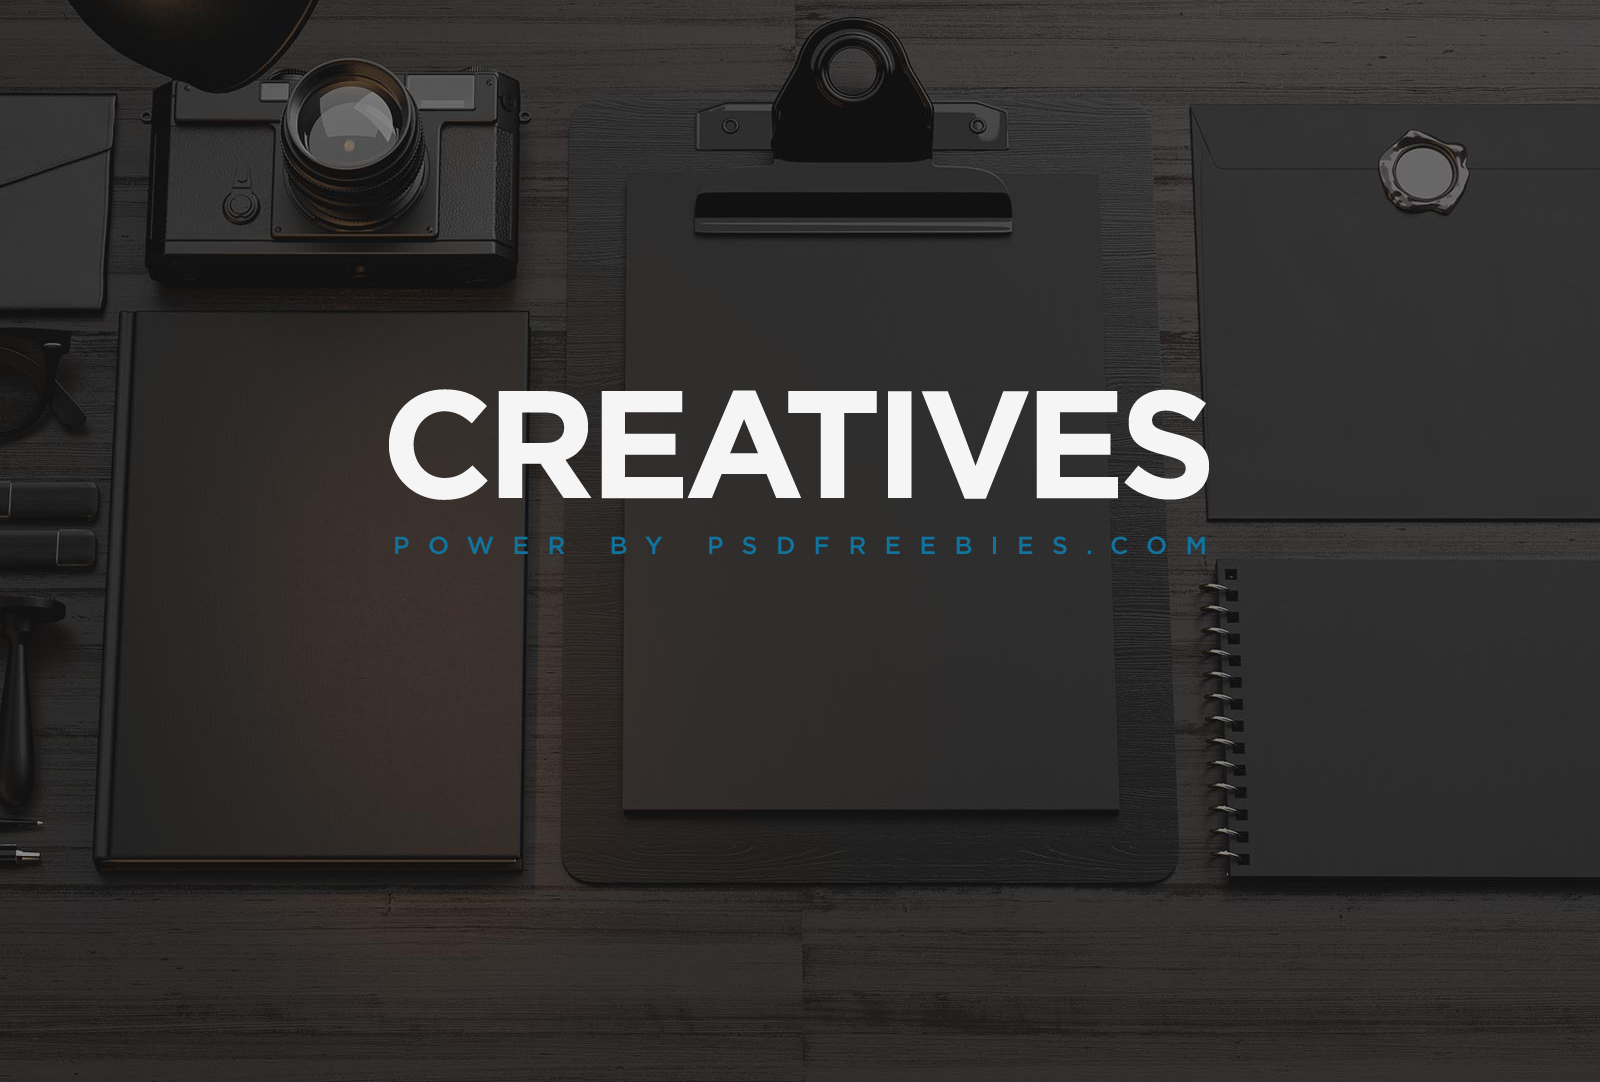
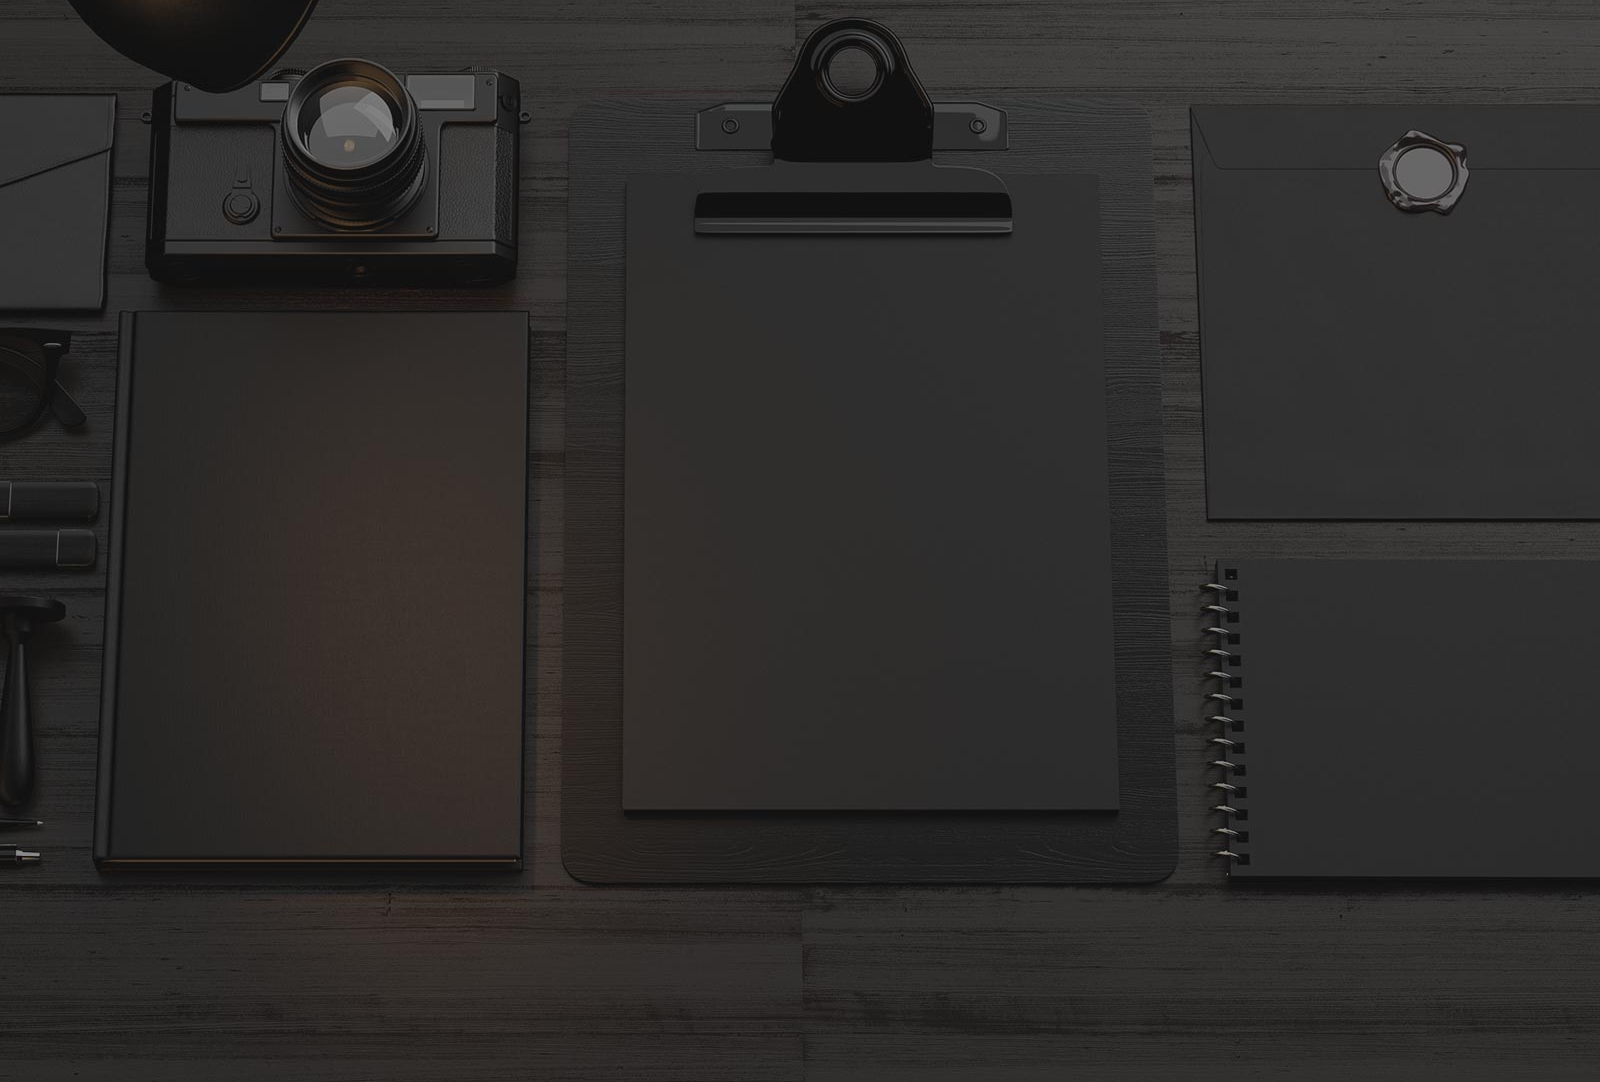
we are sss

diff --git a/index.html b/index.html
@@ -36,13 +36,16 @@
         </ul>
       </div>
     </div>
+    <div class="center-word">
+      <p id="upword">creatives</p>
+      <p id="downord">power by psdfreeberries.com</p>
+    </div>
   </div>
   <!-- SECOND BLOCK -->
   <div class="aboutagency2">
     <div class="hitext">
       <p class="highword1">w</p>
       <p class="highword2">we are an awesome agency</p>
-      </p>
     </div>
     <div class="features">
       <div id="feature" class="feature1">
@@ -50,7 +53,8 @@
           <p>FEATURE ONE</p>
         </div>
         <div class="textfe2">
-          <p>Aenean lacinia bibendum nulla sed consectetur. Vivamus sagittis lacus vel augue laoreet rutrum faucibus dolor </p>
+          <p>Aenean lacinia bibendum nulla sed consectetur. Vivamus sagittis lacus vel augue laoreet rutrum faucibus
+            dolor </p>
         </div>
       </div>
       <div id="feature" class="feature2">
@@ -58,7 +62,8 @@
           <p>FEATURE TWO</p>
         </div>
         <div class="textfe2">
-          <p>Aenean lacinia bibendum nulla sed consectetur. Vivamus sagittis lacus vel augue laoreet rutrum faucibus dolor </p>
+          <p>Aenean lacinia bibendum nulla sed consectetur. Vivamus sagittis lacus vel augue laoreet rutrum faucibus
+            dolor </p>
         </div>
       </div>
       <div id="feature" class="feature3">
@@ -66,7 +71,8 @@
           <p>FEATURE THREE</p>
         </div>
         <div class="textfe2">
-          <p>Aenean lacinia bibendum nulla sed consectetur. Vivamus sagittis lacus vel augue laoreet rutrum faucibus dolor </p>
+          <p>Aenean lacinia bibendum nulla sed consectetur. Vivamus sagittis lacus vel augue laoreet rutrum faucibus
+            dolor </p>
         </div>
       </div>
       <div id="feature" class="feature4">
@@ -74,7 +80,8 @@
           <p>FEATURE FOUR</p>
         </div>
         <div class="textfe2">
-          <p>Aenean lacinia bibendum nulla sed consectetur. Vivamus sagittis lacus vel augue laoreet rutrum faucibus dolor </p>
+          <p>Aenean lacinia bibendum nulla sed consectetur. Vivamus sagittis lacus vel augue laoreet rutrum faucibus
+            dolor </p>
         </div>
       </div>
     </div>
@@ -83,11 +90,17 @@
   <div class="newsarea">
     <div class="firstblock">
       <div class="textarea">
-        <div class="textareasize">
-          <p>Akita Inu Dog</p>
-          <p>Cum sociis natoque penatibus et magnis dis parturient montes, nascetur ridiculus mus. Lorem ipsum dolor sit amet, consectetur adipiscing elit. Donec sed odio dui. Vivamus sagittis lacus vel augue laoreet rutrum faucibus dolor auctor.
+        <div class="textareasize" id="moved1">
+          <p class="words-1">Jan 4, 2016 | In Culture</p>
+          <p class="words-2">Akita Inu Dog</p>
+          <p class="words-3">Cum sociis natoque penatibus et magnis dis parturient montes, nascetur ridiculus mus.
+            Lorem ipsum dolor
+            sit amet, consectetur adipiscing elit. Donec sed odio dui. Vivamus sagittis lacus vel augue laoreet rutrum
+            faucibus dolor auctor.</p>
 
-              Donec ullamcorper nulla non metus auctor fringilla. Lorem ipsum dolor sit amet, consectetur adipiscing elit. Sed posuere consectetur </p>
+          <p class="words-4">Donec ullamcorper nulla non metus auctor fringilla. Lorem ipsum dolor sit amet,
+            consectetur adipiscing
+            elit. Sed posuere consectetur</p>
         </div>
       </div>
       <div class="imgarea">
@@ -96,16 +109,96 @@
     <div class="secondblock">
       <div class="imgarea2"></div>
       <div class="textarea2">
-        <div class="textareasize">
-          <p>Akita Inu Dog</p>
-          <p>Cum sociis natoque penatibus et magnis dis parturient montes, nascetur ridiculus mus. Lorem ipsum dolor sit amet, consectetur adipiscing elit. Donec sed odio dui. Vivamus sagittis lacus vel augue laoreet rutrum faucibus dolor auctor.
+        <div class="textareasize" id="moved2">
+          <p class="words-1">Jan 4, 2016 | In Culture</p>
+          <p class="words-2">Akita Inu Dog</p>
+          <p class="words-3">Cum sociis natoque penatibus et magnis dis parturient montes, nascetur ridiculus mus.
+            Lorem ipsum dolor
+            sit amet, consectetur adipiscing elit. Donec sed odio dui. Vivamus sagittis lacus vel augue laoreet rutrum
+            faucibus dolor auctor.</p>
 
-              Donec ullamcorper nulla non metus auctor fringilla. Lorem ipsum dolor sit amet, consectetur adipiscing elit. Sed posuere consectetur </p>
+          <p class="words-4">Donec ullamcorper nulla non metus auctor fringilla. Lorem ipsum dolor sit amet,
+            consectetur adipiscing
+            elit. Sed posuere consectetur</p>
         </div>
       </div>
     </div>
   </div>
-  <script src="js/script.js"></script>
+  <!-- FOURTH BLOCK -->
+  <div class="blogarea">
+    <div class="hitext">
+      <p class="highword1" id="blword1">b</p>
+      <p class="highword2" id="blword2">let's blog</p>
+    </div>
+    <div class="hitext2">
+      <p>We love clean design and advanced digital solutions</p>
+    </div>
+    <div class="blogspot">
+      <div class="yep"><img src="../maket/img/bl1.png" alt="">
+        <span class="hh">
+          <p>fresh summer campaign</p>
+        </span>
+        <p>Cum sociis natoque penatibus et magnis dis parturient montes, nascetur ridiculus mus. Lorem ipsum dolor sit
+          amet, consectetur adipiscing elit. Donec sed odio dui. Vivamus sagittis lacus vel augue laoreet rutrum
+          faucibus dolor auctor.</p>
+      </div>
+      <div class="yep"><img src="../maket/img/bl2.png" alt="">
+        <span class="hh">
+          <p>fresh summer campaign</p>
+        </span>
+        <p>Cum sociis natoque penatibus et magnis dis parturient montes, nascetur ridiculus mus. Lorem ipsum dolor sit
+          amet, consectetur adipiscing elit. Donec sed odio dui. Vivamus sagittis lacus vel augue laoreet rutrum
+          faucibus dolor auctor.</p>
+      </div>
+      <div class="yep"><img src="../maket/img/bl3.png" alt="">
+        <span class="hh">
+          <p>fresh summer campaign</p>
+        </span>
+        <p>Cum sociis natoque penatibus et magnis dis parturient montes, nascetur ridiculus mus. Lorem ipsum dolor sit
+          amet, consectetur adipiscing elit. Donec sed odio dui. Vivamus sagittis lacus vel augue laoreet rutrum
+          faucibus dolor auctor.</p>
+      </div>
+      <div class="yep"><img src="../maket/img/bl1.png" alt="">
+        <span class="hh">
+          <p>fresh summer campaign</p>
+        </span>
+        <p>Cum sociis natoque penatibus et magnis dis parturient montes, nascetur ridiculus mus. Lorem ipsum dolor sit
+          amet, consectetur adipiscing elit. Donec sed odio dui. Vivamus sagittis lacus vel augue laoreet rutrum
+          faucibus dolor auctor.</p>
+      </div>
+    </div>
+  </div>
+
+  <!-- FIFTH BLOCK -->
+  <div class="panel">
+    <div class="panelinf">
+      <img src="../maket/img/karandash.png" alt="">
+      <p>Cum sociis natoque penatibus et magnis dis parturient montes, nascetur ridiculus mus. Lorem ipsum dolor sit
+        amet, consectetur adipiscing elit. Donec sed odio dui. Vivamus sagittis lacus vel augue laoreet rutrum faucibus
+        dolor auctor.</p>
+    </div>
+    <div class="panelinf2">
+      <img src="../maket/img/karandash.png" alt="">
+      <p>Cum sociis natoque penatibus et magnis dis parturient montes, nascetur ridiculus mus. Lorem ipsum dolor sit
+        amet, consectetur adipiscing elit. Donec sed odio dui. Vivamus sagittis lacus vel augue laoreet rutrum faucibus
+        dolor auctor.</p>
+    </div>
+  </div>
+
+  <!-- SIXTH BLOCK -->
+  <div class="keyfe">
+    <div class="textareakey">
+      <p class="hiketext">akita Inu Dog</p>
+      <p class="hiketext2">Cum sociis natoque penatibus et magnis dis parturient montes, nascetur ridiculus mus. Lorem
+        ipsum dolor sit
+        amet, consectetur adipiscing elit. Donec sed odio dui. Vivamus sagittis lacus vel augue laoreet rutrum faucibus
+        dolor auctor.</p>
+      <p class="firstbacktext" id="backtextkey">fully Responsive Design</p>
+      <p class="secondbacktext" id="backtextkey">high quality code</p>
+      <p class="thirdbacktext" id="backtextkey">different headers & layout</p>
+    </div>
+    <div class="imgphone"><img src="../maket/img/phone.png" alt=""></div>
+    <script src="js/script.js"></script>
 </body>
 
 </html>

diff --git a/styles/main.css b/styles/main.css
@@ -70,6 +70,25 @@ li:hover{
 
     
 }
+
+.center-word{
+    text-align: center;
+    text-transform: uppercase;
+    margin-top: 15vw;
+}
+
+#upword{
+    color: #ffffff;
+    font-size: 9vw;
+    font-weight: bold;
+    
+}
+#downord{
+    color: #11749e;
+    font-size: 2vw;
+    letter-spacing: 0.76vw;
+}
+
 /* SECOND BLOCK */
 .aboutagency2{
     width: 100%;
@@ -87,13 +106,13 @@ li:hover{
 
 .highword1{
     color: #fff3;
-    font-size: 17vw;
+    font-size: 15vw;
 }
 
 .highword2{
     color: #ffffff;
     font-size: 3vw;
-    margin-top: -11vw;
+    margin-top: -10vw;
 }
 
 .features{
@@ -193,32 +212,171 @@ li:hover{
     float: left;
 }
 
-.textarea p{
+
+.textareasize{
+    width: 21.375vw;
+}
+
+#moved1{
+    margin: 5.1vw 13.43vw;
+}
+
+#moved2{
+    margin: 6.5vw 4.8vw;
+}
+
+.words-1{
+    font-size: 0.87vw;
+    
+}
+
+.words-2{
+    text-transform: uppercase;
+    font-size: 1.34vw;
+    margin-top: 0.3vw;
+    font-weight: bold;
+}
+
+.words-3{
+    margin-top: 2.2vw;
+    font-size: 0.87vw;
+}
+
+.words-4{
+    margin-top: 2vw;
+    font-size: 0.87vw;
+}
+
+
+/* FOURTH BLOCK */
+
+.blogarea{
+    width: 100%;
+    height: 55vw;
     float: left;
 }
 
-.textareasize{
-    width: 34.375vw;
-    height: 20.625vw;
+#blword1{
+    color: #d7d7d7;
 }
 
+#blword2{
+    color: #111111;
+}
 
+.hitext2{
+    margin-top: 6vw;
+    text-align: center;
+    font-size: 2vw;
+}
 
+.blogspot{
+    width: 77.5vw;
+    height: 30vw;
+    margin-left: 15vw;
+    margin-top: 2vw;
+}
 
+.yep{
+    width: 14vw;
+    height: 33.75vw;
+    float: left;
+    margin-left: 3vw;
+}
 
+.yep p{
+    text-align: center;
+    margin-top: 1vw;
+}
 
+.hh{
+    color: #11749e;
+    text-transform: uppercase;
+    font-size: 1vw;
+}
 
+/* FIFTH BLOCK */
 
+.panel{
+    width: 100%;
+    height: 22.18vw;
+    float: left;
+    background-color: #11749e;
+    color: #ffffff;
+    font-size: 0.95vw;
+}
 
+.panelinf{
+    width: 20vw;
+    height: 0vw;
+    margin: 7vw 20vw;
+}
 
+.panelinf2{
+    width: 20vw;
+    height: 0vw;
+    margin: -7vw 60vw;
+    
+}
 
+/* SIXTH BLOCK */
 
+.keyfe{
+    width: 100%;
+    height: 50vw;
+    float: left;
+    background: url(../img/backke.png) no-repeat;
+    background-size: 100% 50vw;
+}
 
+.textareakey{
+    width: 20vw;
+    float: left;
+    color: #ffffff;
+    margin: 10vw 20vw;
+}
 
+.imgareakey{
+    float: left;
+    margin-top: 5vw;
+}
 
+.hiketext{
+    font-size: 1.4vw;
+    text-transform: uppercase;
+}
 
+.hiketext2{
+    margin-top: 3.5vw;
+    font-size: 0.95vw;
+    margin-bottom: 3vw;
+}
 
+#backtextkey{
+    background-color: #11749e;
+    text-transform: uppercase;
+    margin-top: 0.8vw;
+    background-size: 1vw 1vw;
+    font-size: 1vw;
+    padding: 0.5vw 0.5vw;
+}
 
+.firstbacktext{
+    width: 16vw;
+    
+}
+
+.secondbacktext{
+    width: 17vw;
+}
+
+.thirdbacktext{
+    width: 18vw;
+}
+
+.imgphone{
+    margin-top: 4vw;
+}
 
 
 
